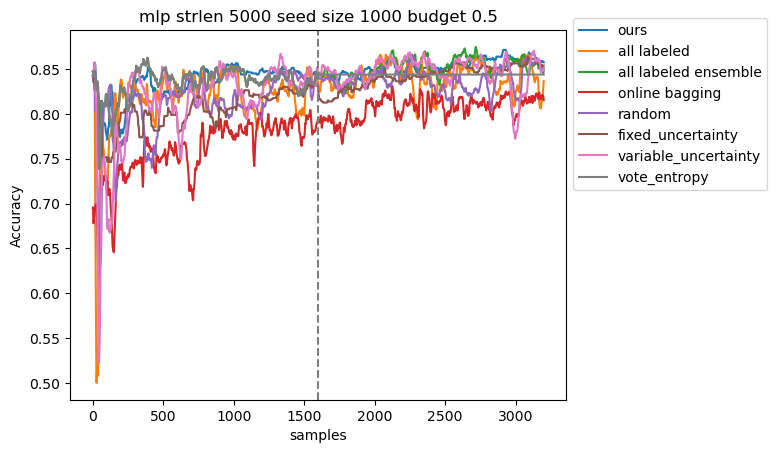
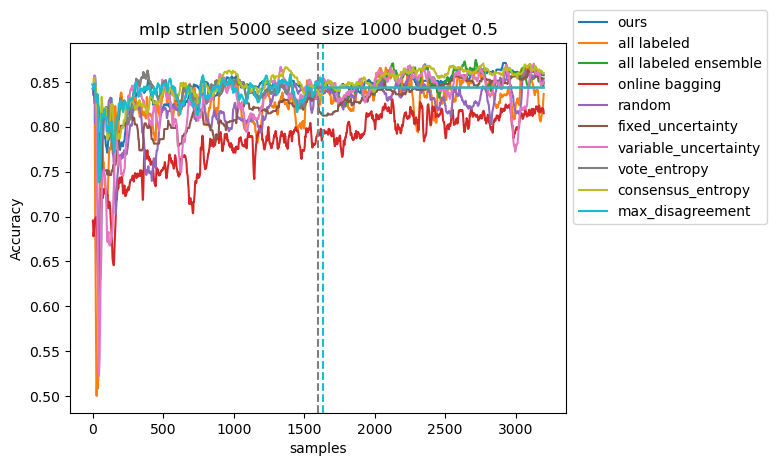
add consensus entropy and max disagreement methods

diff --git a/active_learning_strategies.py b/active_learning_strategies.py
@@ -2,6 +2,8 @@ import scipy.stats
 import abc
 import numpy as np
 
+import utils.ensemble
+
 
 class ActiveLearningStrategy(abc.ABC):
     def __init__(self, model):
@@ -54,16 +56,47 @@ class VariableUncertainty(ActiveLearningStrategy):
 
 class VoteEntropy(ActiveLearningStrategy):
     def __init__(self, model, threshold):
+        assert type(model) == utils.ensemble.Ensemble, "Vote entropy must use ensemble model"
+        super().__init__(model)
+        self.threshold = threshold
+        self.num_classifiers = len(model.models)
+
+    def request_label(self, obj, current_budget, budget):
+        pred_separate = self.model.predict_proba_separate(obj)
+        idx = np.argmax(pred_separate, axis=2).reshape(self.num_classifiers, 1, 1)
+        pred_probs = np.take_along_axis(pred_separate, idx, axis=2)
+        vote_entropy = scipy.stats.entropy(pred_probs.flatten())
+        if vote_entropy > self.threshold:
+            return True
+        else:
+            return False
+
+
+class ConsensusEntropy(ActiveLearningStrategy):
+    def __init__(self, model, threshold):
         super().__init__(model)
         self.threshold = threshold
 
     def request_label(self, obj, current_budget, budget):
-        pred_separate = self.model.predict_proba_separate(obj)
-        num_classifiers = pred_separate.shape[0]
-        idx = np.argmax(pred_separate, axis=2).reshape(num_classifiers, 1, 1)
-        pred_probs = np.take_along_axis(pred_separate, idx, axis=2)
-        vote_entropy = scipy.stats.entropy(pred_probs.flatten())
-        if vote_entropy > self.threshold:
+        pred_prob = self.model.predict_proba(obj)
+        entropy = scipy.stats.entropy(pred_prob, axis=1)
+        if entropy > self.threshold:
+            return True
+        else:
+            return False
+
+
+class MaxDisagreement(ActiveLearningStrategy):
+    def __init__(self, model, threshold):
+        super().__init__(model)
+        self.threshold = threshold
+
+    def request_label(self, obj, current_budget, budget):
+        pred_prob = self.model.predict_proba_separate(obj)
+        pred_prob_consensus = np.mean(pred_prob, axis=0, keepdims=False)
+        classifers_KL_divergence = [scipy.stats.entropy(pred_prob[i], qk=pred_prob_consensus, axis=1) for i in range(len(pred_prob))]
+        max_kl_divergence = np.max(classifers_KL_divergence)
+        if max_kl_divergence > self.threshold:
             return True
         else:
             return False

diff --git a/main.py b/main.py
@@ -29,7 +29,7 @@ def main():
     if args.method == 'online_bagging':
         base_model = get_base_model(args)
         model = OnlineBagging(base_estimator=base_model, n_estimators=args.num_classifiers)
-    elif args.method in ('all_labeled_ensemble', 'ours', 'vote_entropy'):
+    elif args.method in ('all_labeled_ensemble', 'ours', 'vote_entropy', 'consensus_entropy', 'max_disagreement'):
         models = [get_base_model(args) for _ in range(args.num_classifiers)]
         model = utils.ensemble.Ensemble(models, diversify=True)
     else:
@@ -57,7 +57,7 @@ def parse_args():
     parser.add_argument('--budget', type=float, default=0.3)
 
     parser.add_argument('--method', choices=('ours', 'all_labeled', 'all_labeled_ensemble', 'online_bagging',
-                        'random', 'fixed_uncertainty', 'variable_uncertainty', 'vote_entropy'), default='ours')
+                        'random', 'fixed_uncertainty', 'variable_uncertainty', 'vote_entropy', 'consensus_entropy', 'max_disagreement'), default='ours')
     parser.add_argument('--base_model', choices=('mlp', 'ng', 'online_bagging'), default='mlp')
     parser.add_argument('--prediction_threshold', type=float, default=0.6)
     parser.add_argument('--ensemble_diversify', action='store_true')
@@ -110,6 +110,10 @@ def stream_learning(train_stream, seed_data, seed_target, test_data, test_target
             model, args.prediction_threshold)
     elif args.method == 'vote_entropy':
         strategy = active_learning_strategies.VoteEntropy(model, args.prediction_threshold)
+    elif args.method == 'consensus_entropy':
+        strategy = active_learning_strategies.ConsensusEntropy(model, args.prediction_threshold)
+    elif args.method == 'max_disagreement':
+        strategy = active_learning_strategies.MaxDisagreement(model, args.prediction_threshold)
 
     train_stream = tqdm.tqdm(train_stream, total=len(train_stream))
 

diff --git a/plots.py b/plots.py
@@ -20,8 +20,12 @@ def plot_model(args):
         'results/fixed_uncertainty/{}_{}_{}_seed_{}_budget_{}.npy',
         'results/variable_uncertainty/{}_{}_{}_seed_{}_budget_{}.npy',
         'results/vote_entropy/{}_{}_{}_seed_{}_budget_{}.npy',
+        'results/consensus_entropy/{}_{}_{}_seed_{}_budget_{}.npy',
+        'results/max_disagreement/{}_{}_{}_seed_{}_budget_{}.npy',
     ]
-    plot_labels = ['ours', 'all labeled', 'all labeled ensemble', 'online bagging', 'random', 'fixed_uncertainty', 'variable_uncertainty', 'vote_entropy']
+    plot_labels = ['ours', 'all labeled', 'all labeled ensemble', 'online bagging',
+                   'random', 'fixed_uncertainty', 'variable_uncertainty', 
+                   'vote_entropy', 'consensus_entropy', 'max_disagreement']
 
     for i, (filepath, result_label) in enumerate(zip(results, plot_labels)):
         acc = np.load(filepath.format('acc', args.base_model, args.stream_len, args.seed_size, args.budget))
